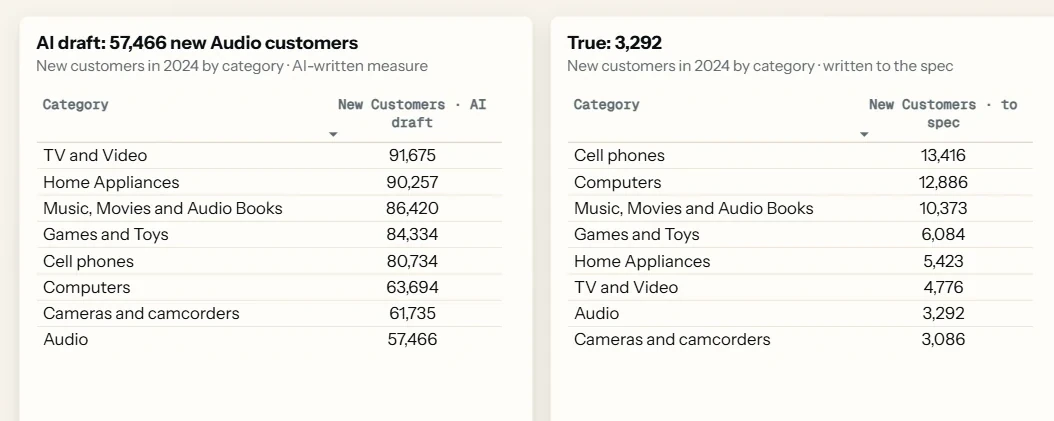
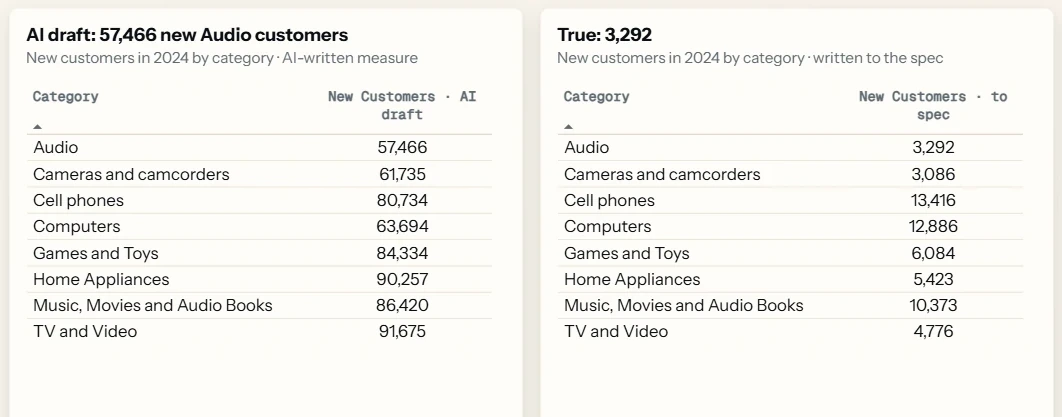
docs: ai-dax-10m screenshots used in the post, category tables sorted A to Z

diff --git a/ai/ai-dax-10m/evidence.md b/ai/ai-dax-10m/evidence.md
@@ -40,18 +40,22 @@ compared with a measure written to the spec?
 
 ### New customers in 2024 by category (the report page and the post image)
 
-Each measure in its own query, Year = 2024, as shown on the Power BI Desktop page (`media/ai-vs-spec-desktop.webp`):
+Each measure in its own query and its own table visual, Year = 2024, both tables sorted by category A to Z. Screenshot
+of the Power BI Desktop page used in the post image (recaptured 2026-11-22 after sorting both tables A to Z; numbers
+re-run by DAX the same day, unchanged): `media/ai-vs-spec-two.webp`. Full page: `media/ai-vs-spec-desktop.webp`.
+
+![New customers in 2024 by category, AI draft and written to spec, Power BI Desktop](media/ai-vs-spec-two.webp)
 
 | Category | AI draft (Haiku) | Written to spec |
 |---|---|---|
-| TV and Video | 91,675 | 4,776 |
-| Home Appliances | 90,257 | 5,423 |
-| Music, Movies and Audio Books | 86,420 | 10,373 |
-| Games and Toys | 84,334 | 6,084 |
+| Audio | 57,466 | 3,292 |
+| Cameras and camcorders | 61,735 | 3,086 |
 | Cell phones | 80,734 | 13,416 |
 | Computers | 63,694 | 12,886 |
-| Cameras and camcorders | 61,735 | 3,086 |
-| Audio | 57,466 | 3,292 |
+| Games and Toys | 84,334 | 6,084 |
+| Home Appliances | 90,257 | 5,423 |
+| Music, Movies and Audio Books | 86,420 | 10,373 |
+| TV and Video | 91,675 | 4,776 |
 
 The written-to-spec values match the row-level check (GROUPBY over all sales lines) for every category tested.
 
@@ -59,6 +63,10 @@ The written-to-spec values match the row-level check (GROUPBY over all sales lin
 
 Both measures and the row-level check (each customer's first-ever order date, from GROUPBY over all sales lines),
 checked on 2026-11-21 for every year:
+
+Screenshot of this table on the same Power BI Desktop page, used in the post image: `media/ai-vs-spec-year.webp`.
+
+![New customers by year, no category filter, both measures, Power BI Desktop](media/ai-vs-spec-year.webp)
 
 | Year | AI draft (Haiku) | Written to spec | From the rows |
 |---|---|---|---|
@@ -104,7 +112,7 @@ The first build of the base model read the parquet dates as UTC timestamps and c
 (US Central), so every date landed one day early: the Date table ran from 2015-12-31 to 2026-12-30 while its Year
 column said 2016 to 2026. Before the fix, Year = 2024 on the Date table summed 3,280,758,606.50 while the shifted order
 dates in 2024 summed 3,283,485,913.06. After the fix both give 3,280,758,606.50, the correct 2024 total.
-Fixed in the model's Power Query by dropping the zone before the date conversion. All results above are from
+Fixed in `shared/contoso/build_base.py` by dropping the zone before the date conversion. All results above are from
 the fixed model.
 
 ## Sources
